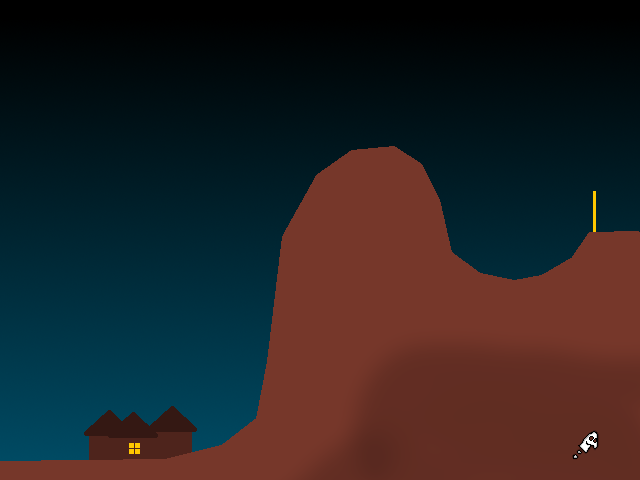
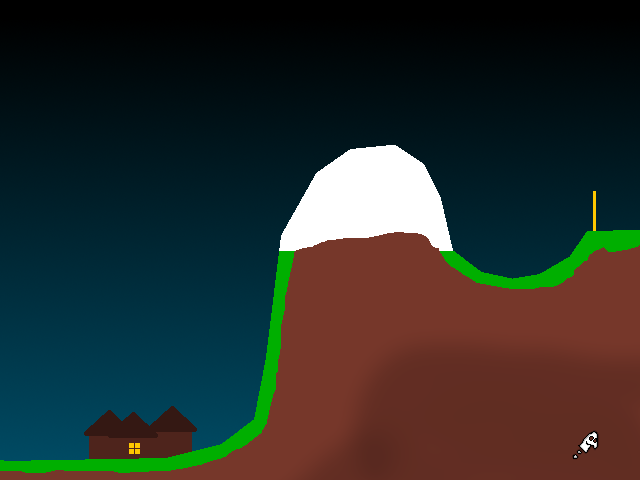
[BIGRIGS] change foreground details.
Several elements of the foreground from the "Race that Rig!" minigame
have been moved to the background to create a less janky visual effect
that still doesn't take away from the intended jankiness.

Changed region(s): [[0.0, 0.2812, 1.0, 1.0]]

diff --git a/CHANGELOG.md b/CHANGELOG.md
@@ -60,6 +60,10 @@ Minigame Madness _does not_ use Semantic Versioning.
 - Some identical arrow sprites have been consolidated into a single sprite and
   now use color modulation to change colors to save space.
 
+- Several elements of the foreground image in the "Race that Rig!" minigame
+  have been moved to the background to make for a less janky appearance without
+  detracting from the intended jankiness of the minigame.
+
 
 ## [0.13.5] - 2024-03-28
 
